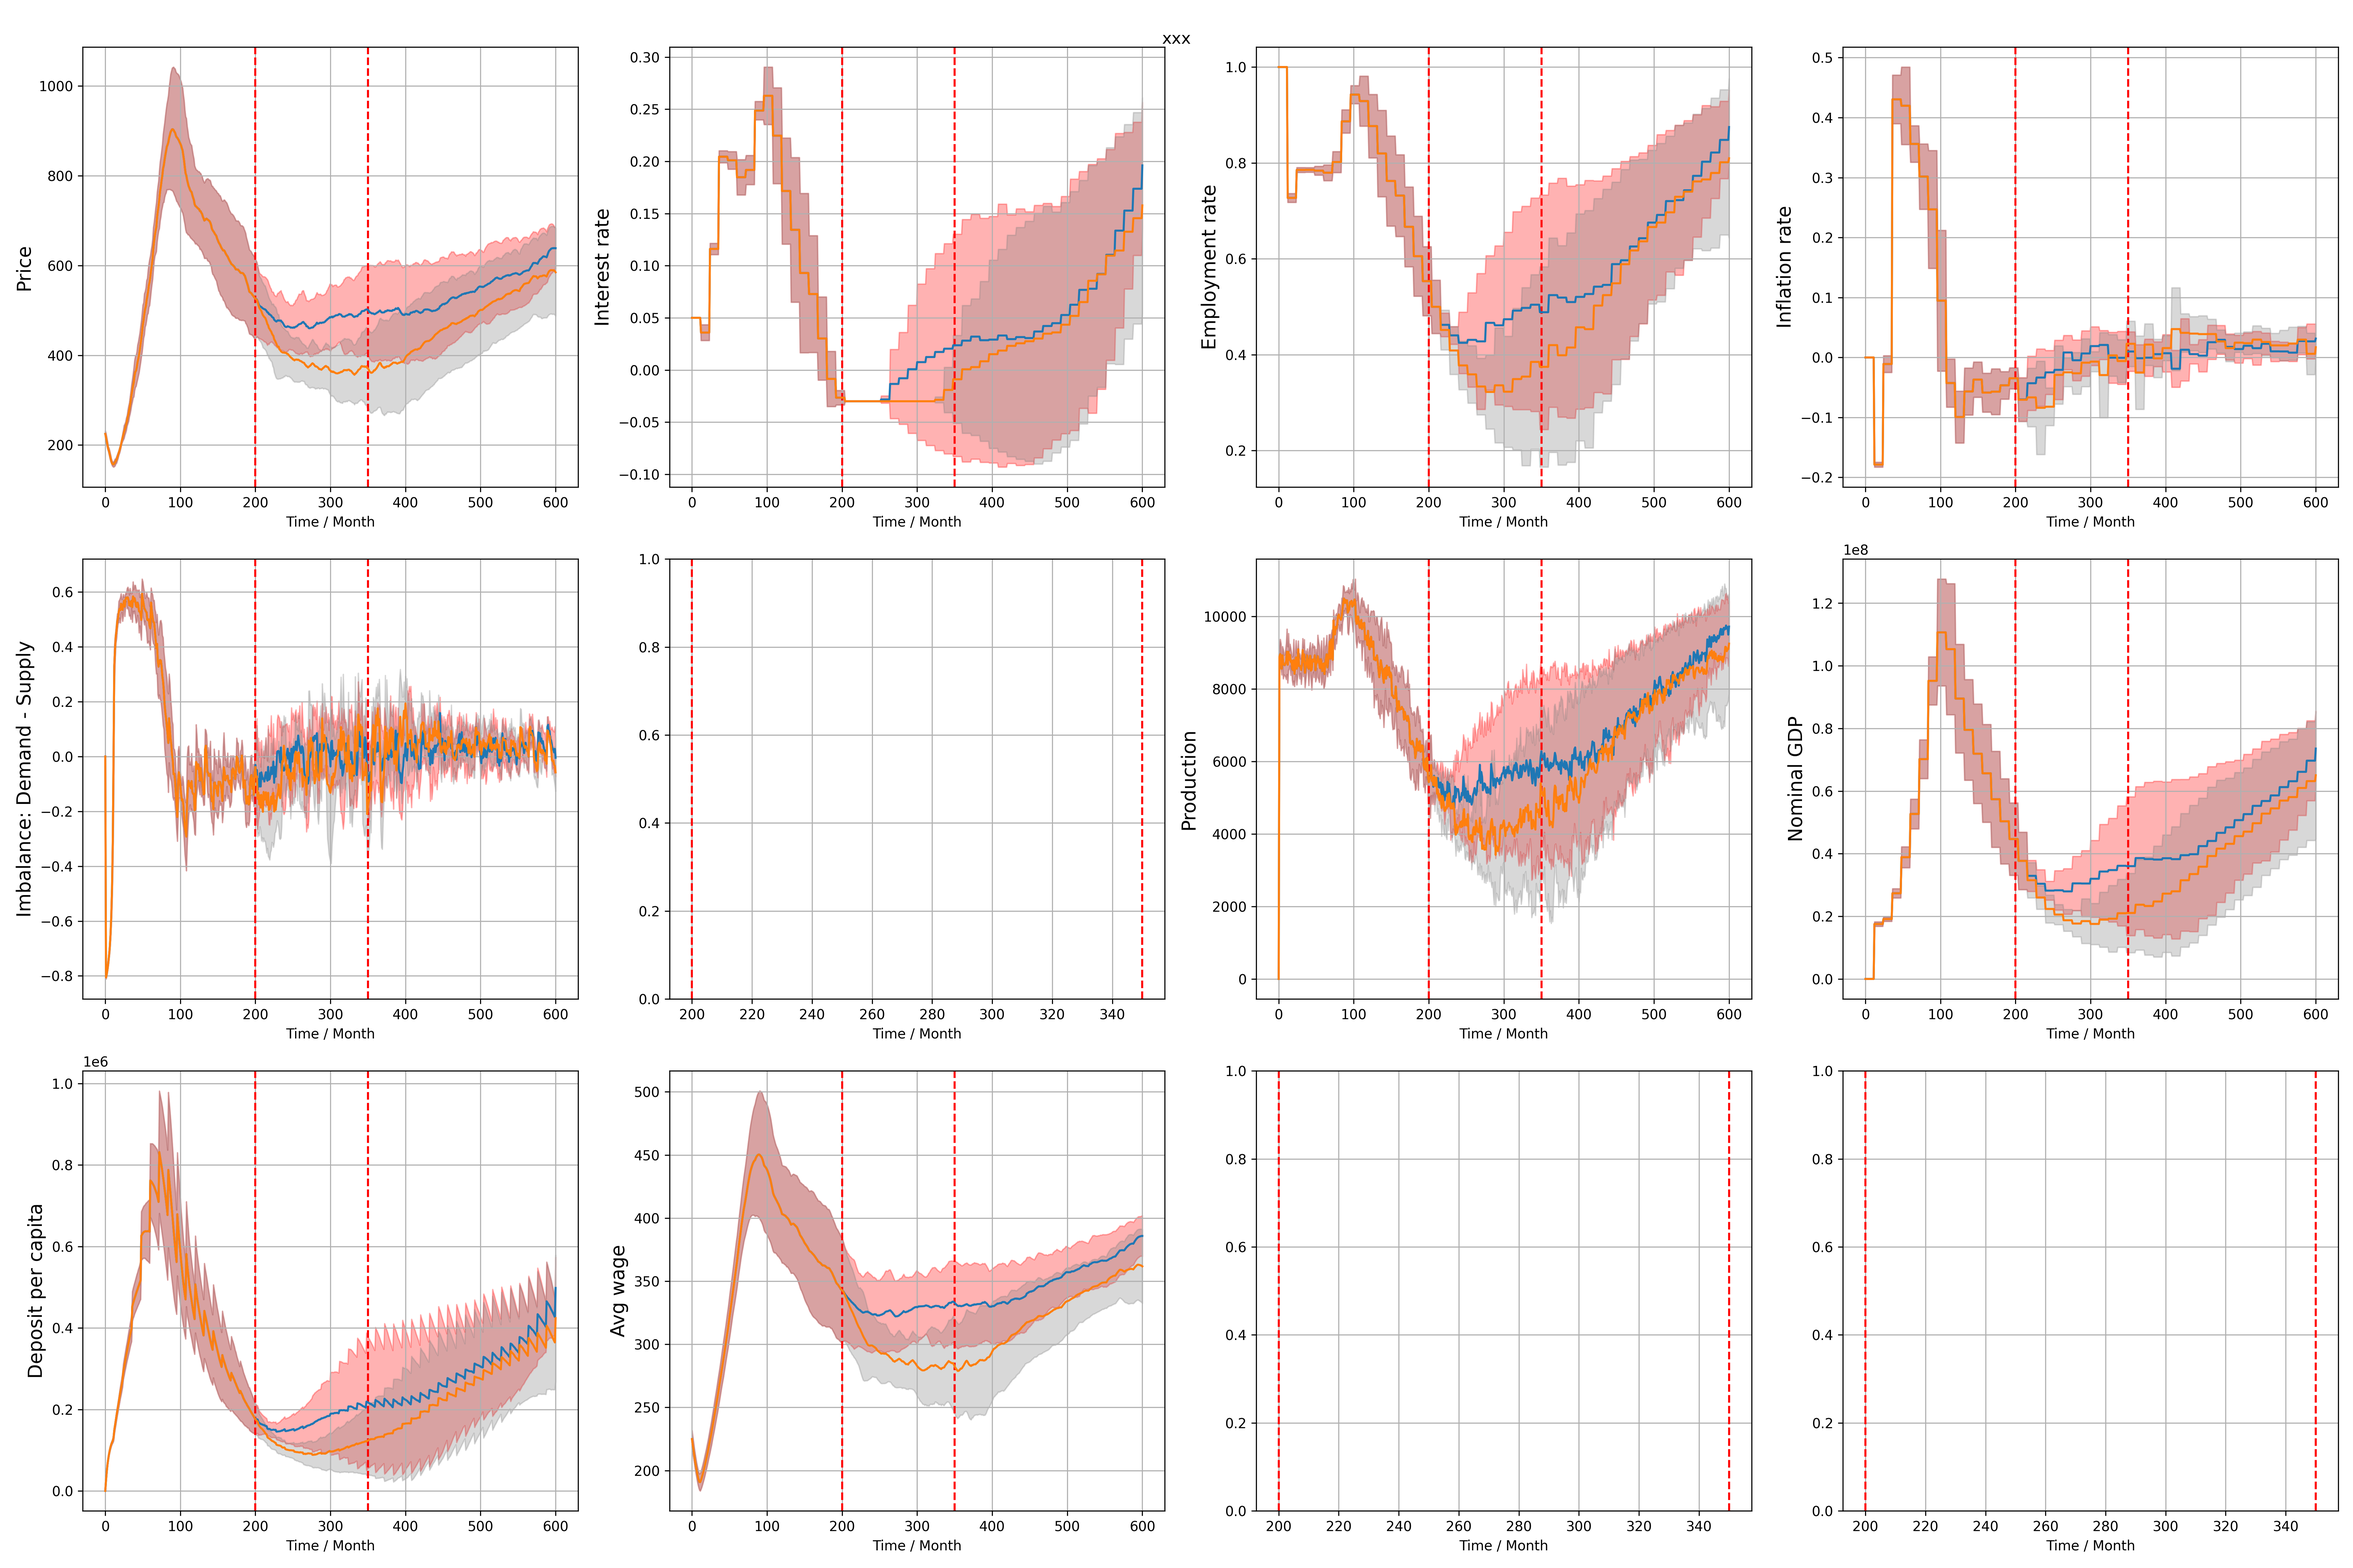
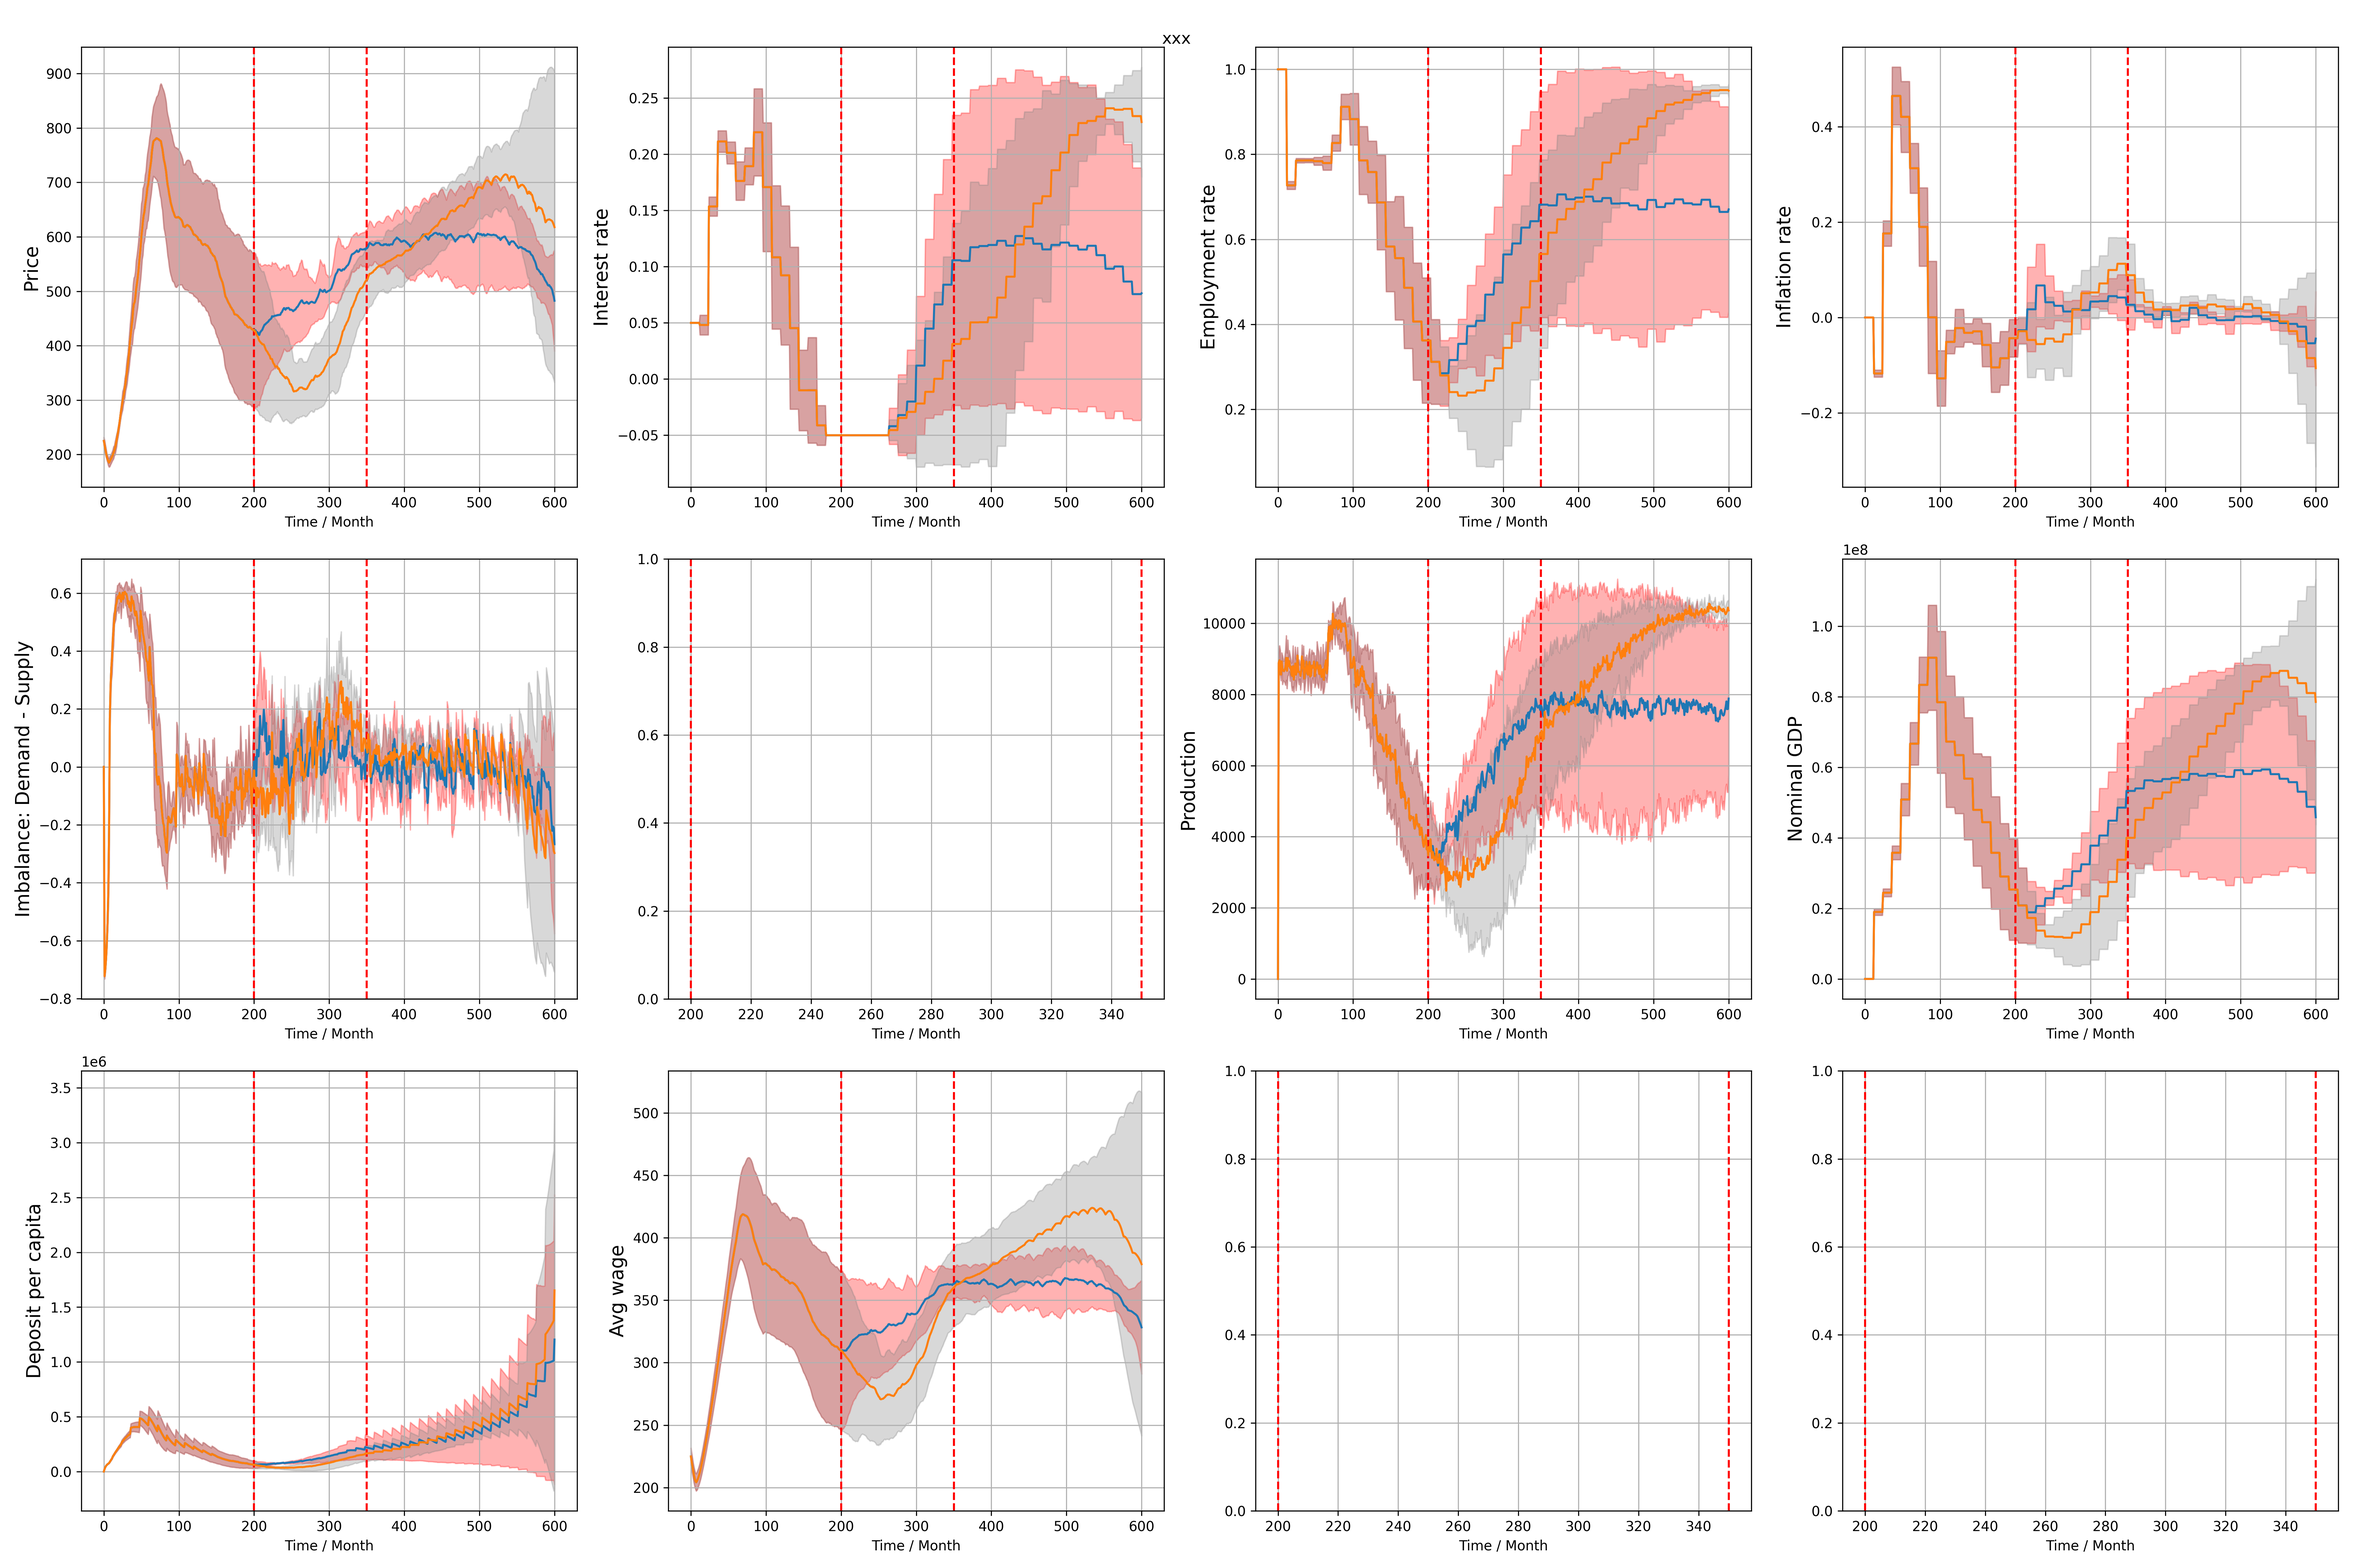
hjh

diff --git a/main.py b/main.py
@@ -1,35 +1,11 @@
 import numpy as np
 import random
-from utils import taxation, inflation, GDP, unemployment, init_agents
+from utils import taxation, inflation, GDP, unemployment, init_agents, imbalance
 from copy import deepcopy
 from config import Configuration
 from src.agent import agent
 from src.firm import firm
-from src.bank import bank
-
-
-class market:
-    def __init__(self, ) -> None:
-        pass
-    
-    def total_intended_demand(self, agent_list:list[agent], P:float, deposits:dict) -> float:
-        '''
-        社会总预期需求 = 消费比例 * 储蓄量 / 价格
-        '''
-        cnt = np.sum([a.pc * deposits[a.id] / P for a in agent_list])
-        return cnt
-    
-    def imbalance(self, agent_list:list[agent], P:float, G:float, deposits:dict) -> float:
-        '''
-        计算 预期需求与实际产量之间的不均衡
-        >0, 需求 > 产量
-        <0, 需求 < 产量
-        '''
-        D = self.total_intended_demand(agent_list, P, deposits)
-        # print('imbalance:', D, firm.G)
-        phi_bar = (D - G) / max(D, G)
-        return phi_bar
-    
+from src.bank import bank   
     
 
 def simulation(config:Configuration, event=False, intervention=False):
@@ -37,7 +13,6 @@ def simulation(config:Configuration, event=False, intervention=False):
     random.seed(config.seed)
     np.random.seed(config.seed)
     
-    M = market()
     F = firm(A=config.A, 
              alpha_w=config.alpha_w, 
              alpha_p=config.alpha_p)
@@ -75,8 +50,8 @@ def simulation(config:Configuration, event=False, intervention=False):
     for t in range(1, config.num_time_steps+1):
         
         ################ 事 件 开 始 ################
-        # 增加失业
-        # 产量减少
+        # 降低就业意愿
+        # 产量减少，工资收入减少
         # GDP下降
         
         # if event:
@@ -134,7 +109,7 @@ def simulation(config:Configuration, event=False, intervention=False):
         #############################
         # price and wage adjustment #
         #############################
-        phi_bar = M.imbalance(agents, F.P, F.G, B.deposits)
+        phi_bar = imbalance(agents, F.P, F.G, B.deposits)
         F.wage_adjustment(agents, phi_bar)
         F.price_adjustment(phi_bar)
         

diff --git a/utils.py b/utils.py
@@ -68,6 +68,24 @@ def unemployment(log:dict):
         unemployment_cnt += state.count(0)
     return unemployment_cnt / (12 * len(state))
 
+def total_intended_demand(agent_list:list[agent], P:float, deposits:dict) -> float:
+    '''
+    社会总预期需求 = 消费比例 * 储蓄量 / 价格
+    '''
+    cnt = np.sum([a.pc * deposits[a.id] / P for a in agent_list])
+    return cnt
+
+def imbalance(agent_list:list[agent], P:float, G:float, deposits:dict) -> float:
+    '''
+    计算 预期需求与实际产量之间的不均衡
+    >0, 需求 > 产量
+    <0, 需求 < 产量
+    '''
+    D = total_intended_demand(agent_list, P, deposits)
+    # print('imbalance:', D, firm.G)
+    phi_bar = (D - G) / max(D, G)
+    return phi_bar
+
 def plot_bar(img_name:str, logs:list[dict], logs_compare:list[dict], config:Configuration):
     import matplotlib.pyplot as plt
     fig, axs = plt.subplots(3, 4, figsize=(24, 16))

diff --git a/config.py b/config.py
@@ -44,7 +44,7 @@ class Configuration:
     pw_low = 0.60
     pw_high = 0.95
     pc_low = 0.1
-    pc_high = 0.2
+    pc_high = 0.4
     
     pw_delta = 0.3
-    pc_delta = 0.001
+    pc_delta = 0.005
